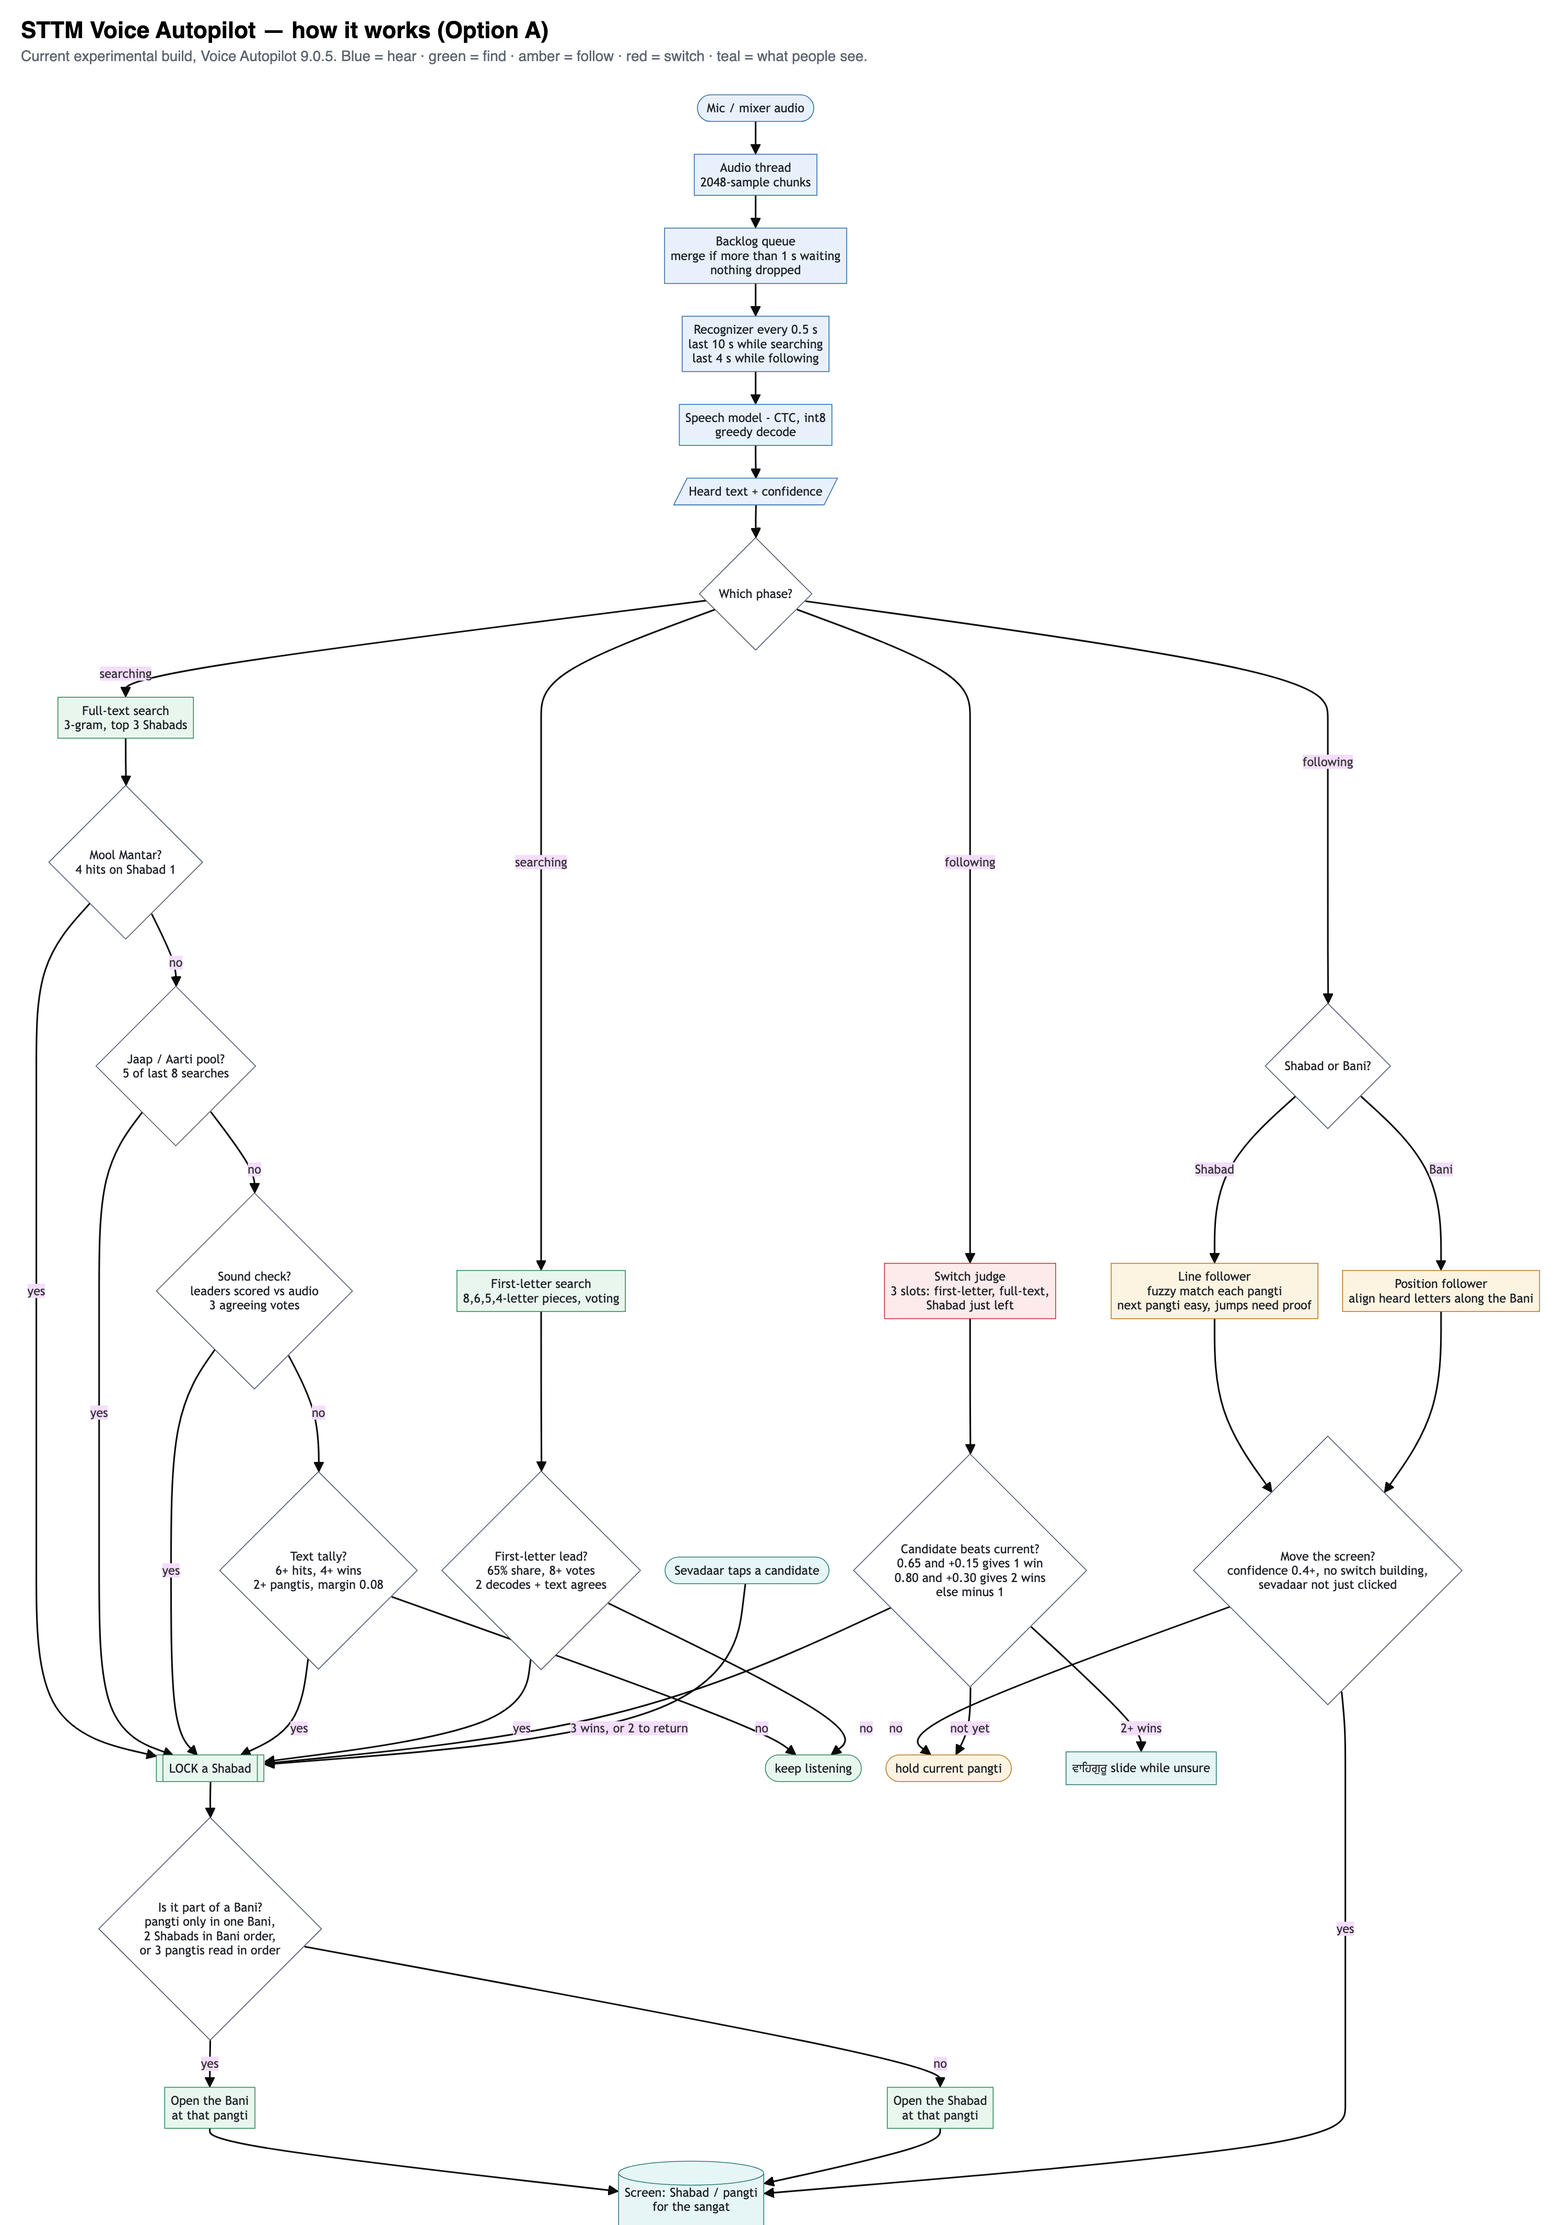
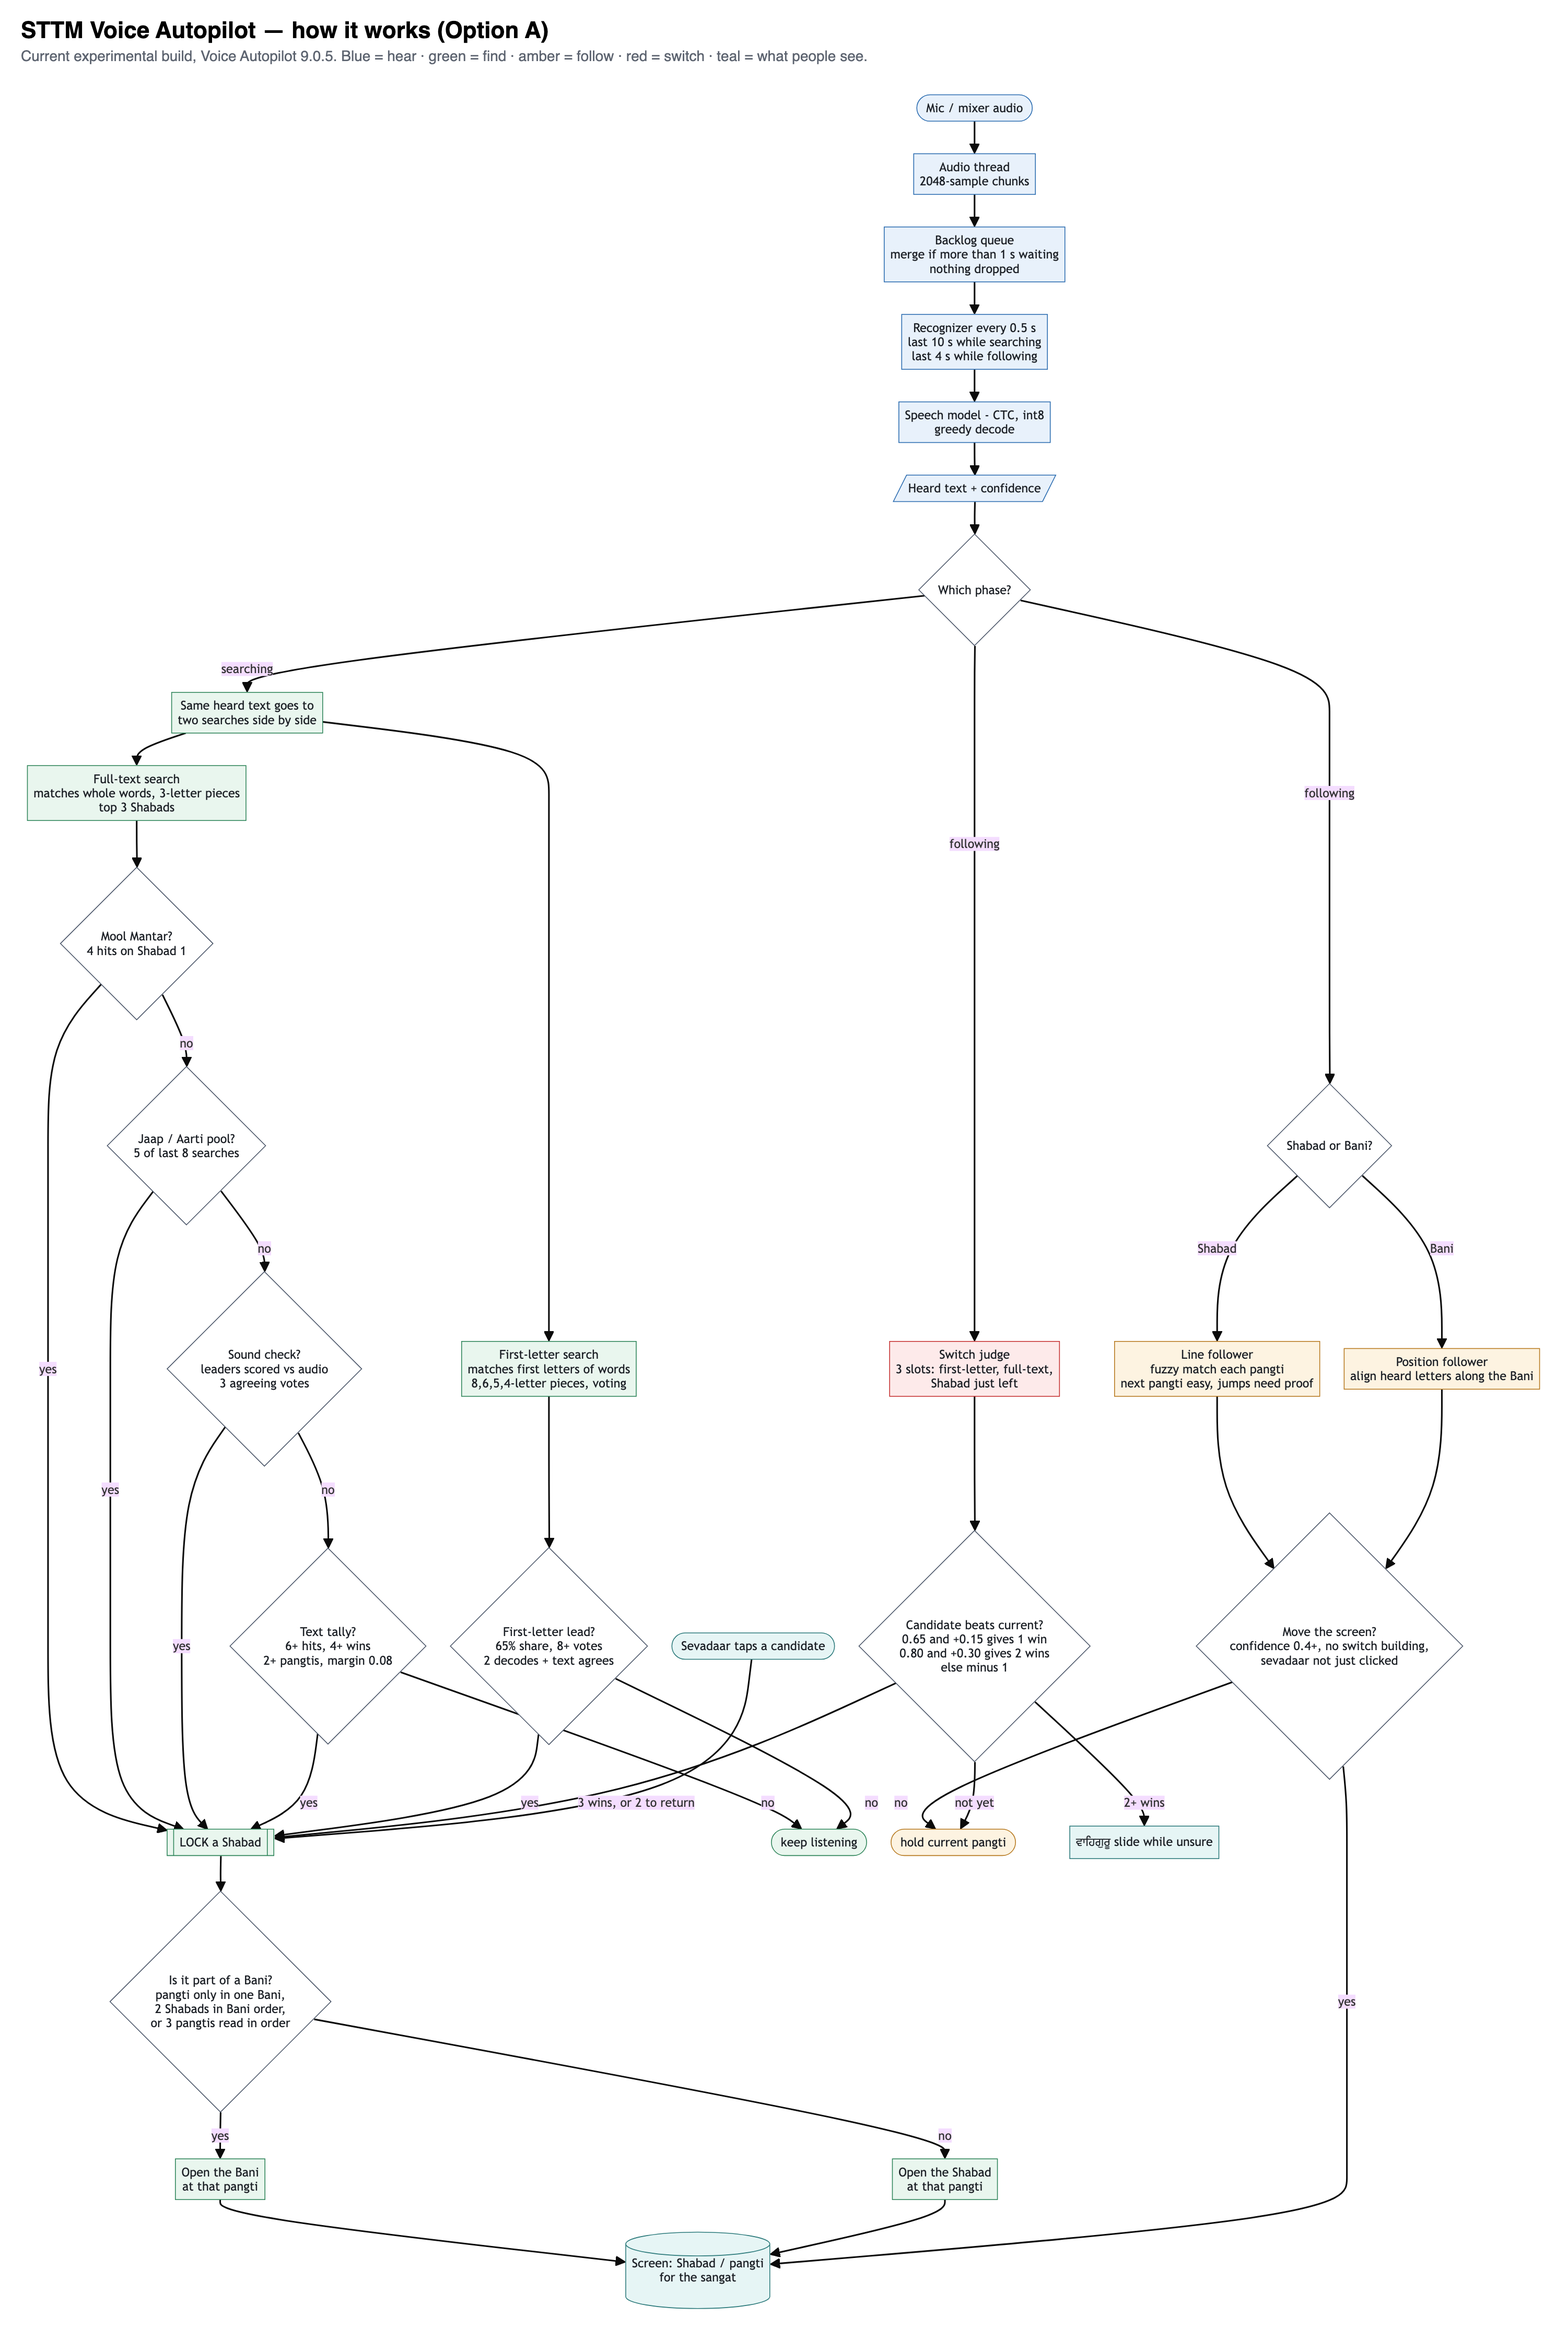
Harness diagram A: one 'searching' branch feeding the two searches

diff --git a/research/harness-diagram/optA.html b/research/harness-diagram/optA.html
@@ -17,8 +17,9 @@ flowchart TD
   MODEL --> HYP[/Heard text + confidence/]:::hear
   HYP --> PH{Which phase?}:::dec
 
-  PH -- searching --> S1[Full-text search<br/>3-gram, top 3 Shabads]:::find
-  PH -- searching --> S2[First-letter search<br/>8,6,5,4-letter pieces, voting]:::find
+  PH -- searching --> SB[Same heard text goes to<br/>two searches side by side]:::find
+  SB --> S1[Full-text search<br/>matches whole words, 3-letter pieces<br/>top 3 Shabads]:::find
+  SB --> S2[First-letter search<br/>matches first letters of words<br/>8,6,5,4-letter pieces, voting]:::find
   S1 --> R1{Mool Mantar?<br/>4 hits on Shabad 1}:::dec
   R1 -- no --> R2{Jaap / Aarti pool?<br/>5 of last 8 searches}:::dec
   R2 -- no --> R3{Sound check?<br/>leaders scored vs audio<br/>3 agreeing votes}:::dec
